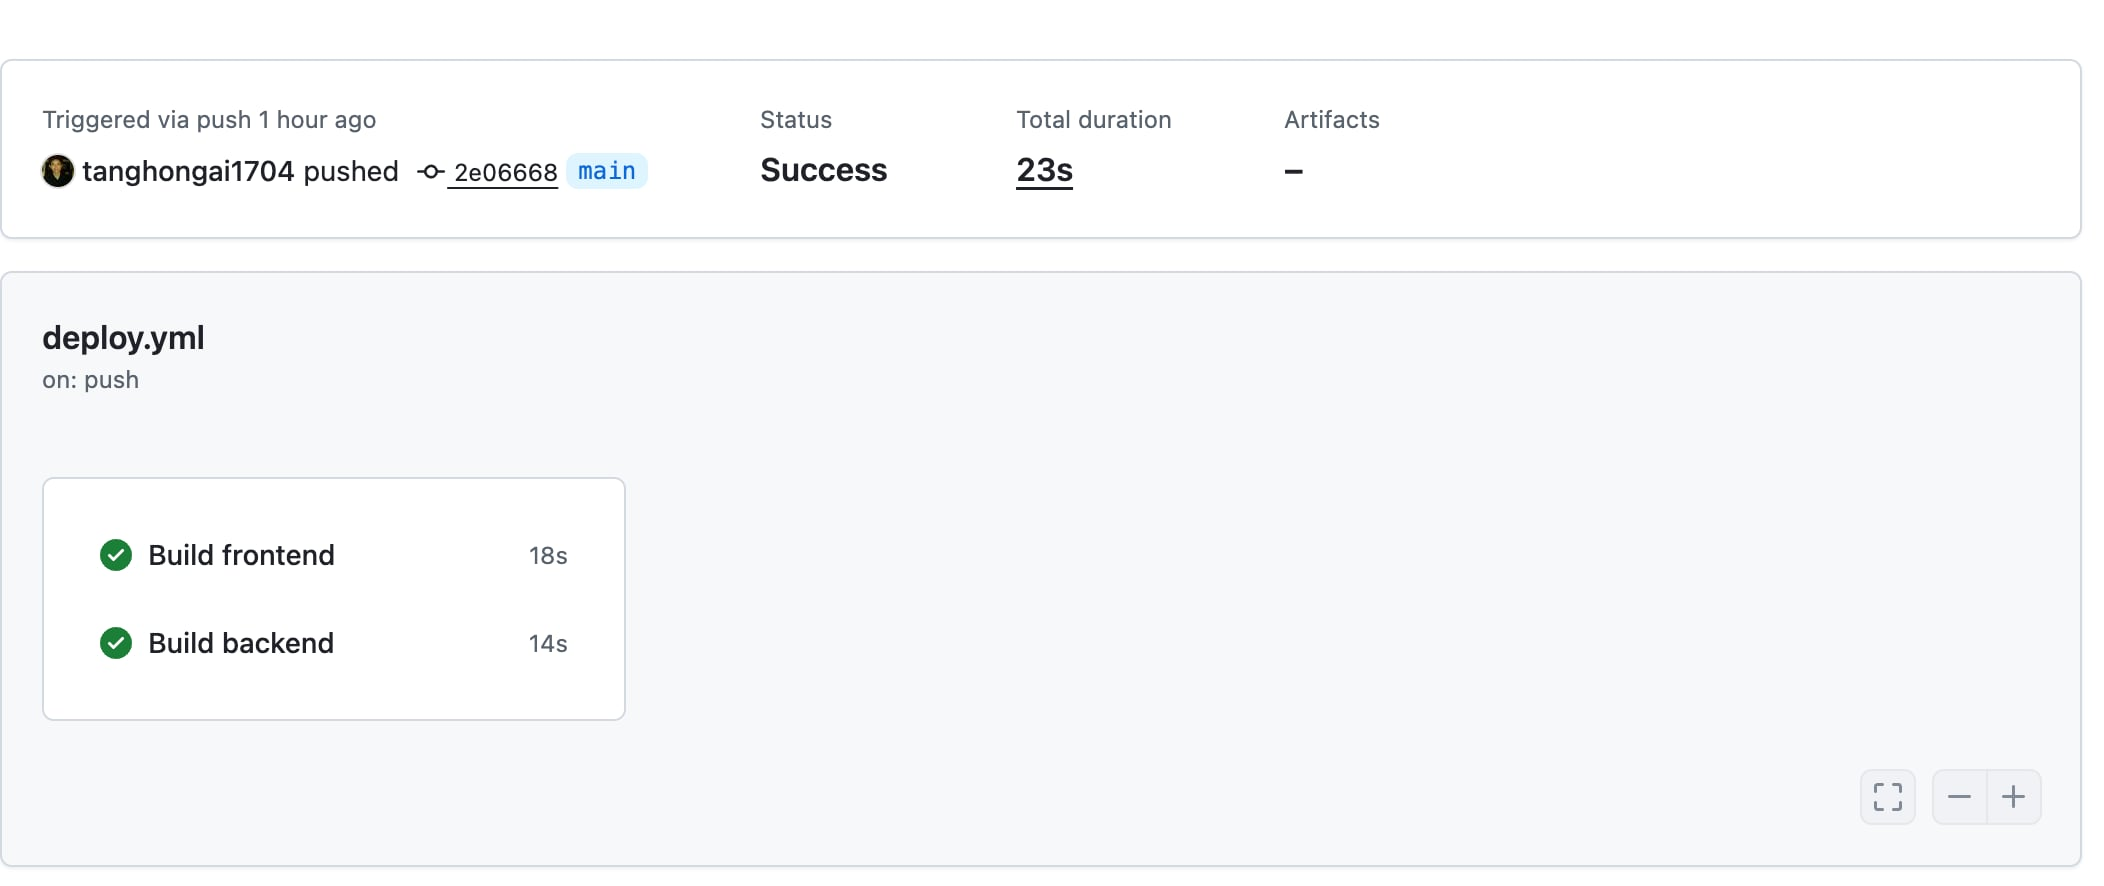
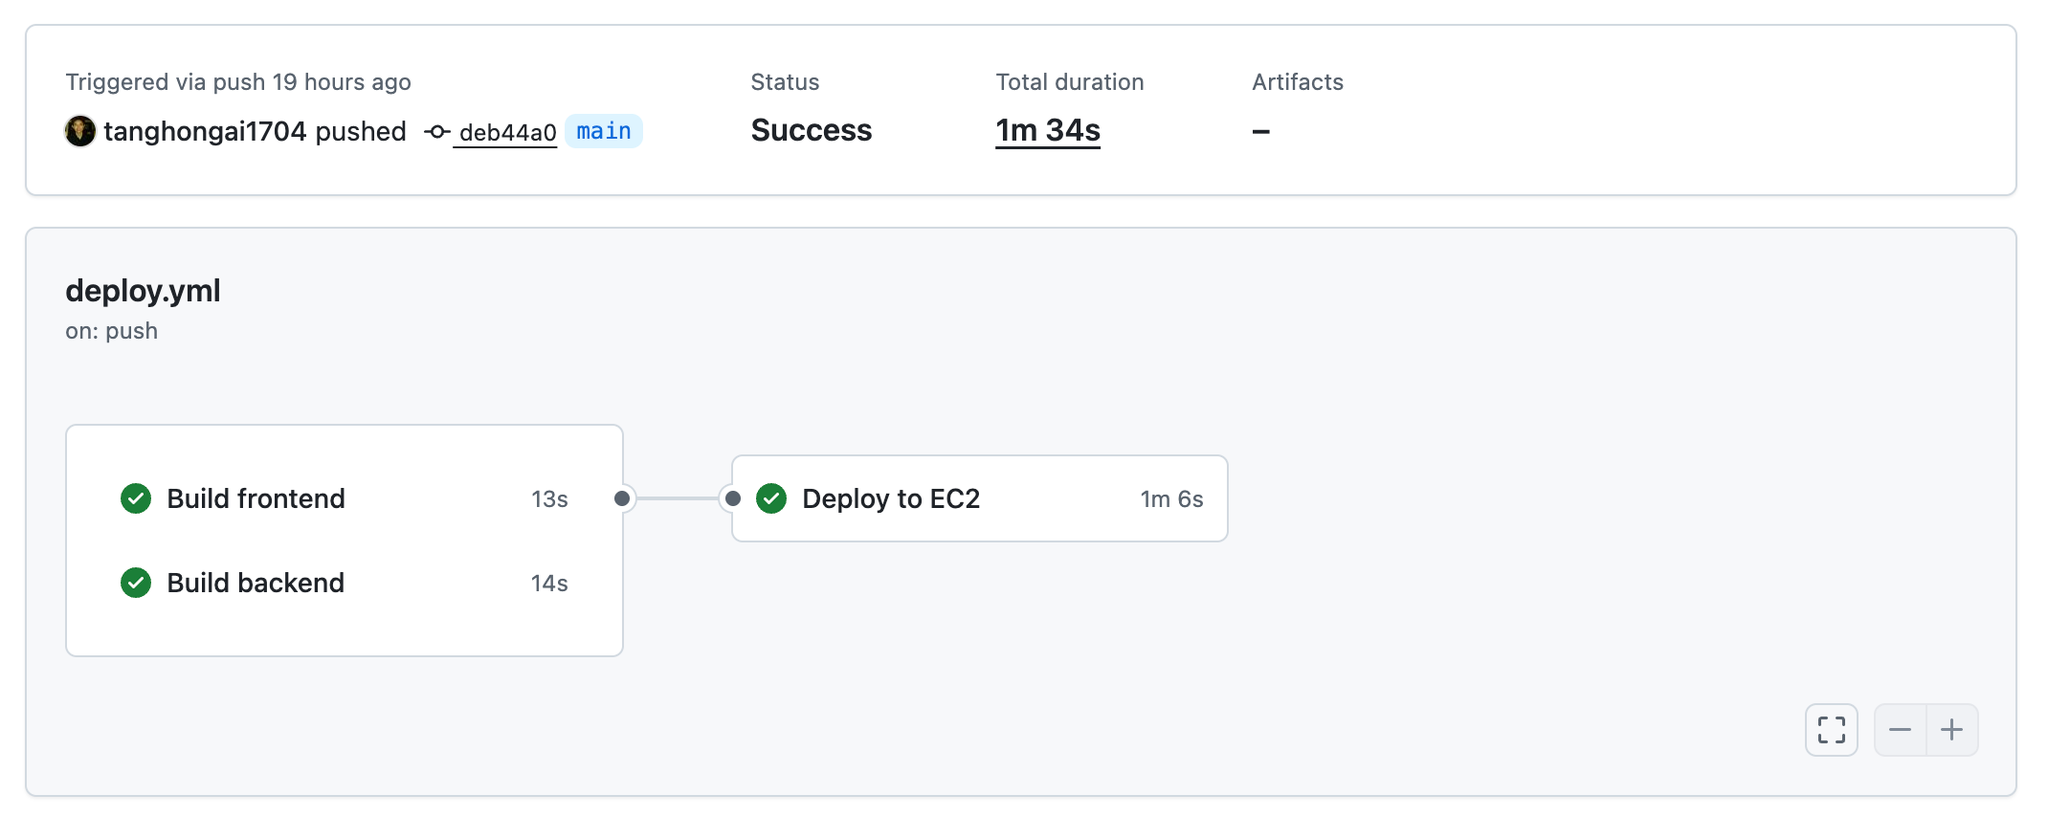
Update Deployment Workflow section to reflect the current deploy.yml structure
Describe Build frontend / Build backend as parallel jobs followed by a
single Deploy to EC2 job, matching the actual GitHub Actions run graph,
and swap in the current successful-run screenshot.

diff --git a/content/5-Workshop/5.4-Recommendation-pipeline/5.4.3-integrate-ec2-application/_index.md b/content/5-Workshop/5.4-Recommendation-pipeline/5.4.3-integrate-ec2-application/_index.md
@@ -58,14 +58,17 @@ On EC2, prefer an instance profile so the AWS SDK obtains credentials through th
 
 ## 4. Deployment Workflow
 
-When a commit is pushed to the `main` branch, GitHub Actions:
+When a commit is pushed to the `main` branch, the `deploy.yml` workflow runs the **Build frontend** and **Build backend** jobs in parallel, followed by the **Deploy to EC2** job:
 
+**Build frontend / Build backend** (run in parallel)
 1. Builds the frontend.
 2. Installs backend dependencies and runs `compileall`.
-3. Connects to EC2 over SSH.
-4. Changes to `EC2_APP_DIR`.
-5. Pulls source from `main`.
-6. Runs Docker Compose.
+
+**Deploy to EC2** (runs after both build jobs succeed)
+1. Connects to EC2 over SSH.
+2. Changes to `EC2_APP_DIR`.
+3. Pulls source from `main`.
+4. Runs Docker Compose.
 
 ![Successful GitHub Actions workflow build](/images/5-Workshop/5.4-Recommendation-pipeline/5.4.3-integrate-ec2-application/github-actions-build-success.png)
 

diff --git a/content/5-Workshop/5.4-Recommendation-pipeline/5.4.3-integrate-ec2-application/_index.vi.md b/content/5-Workshop/5.4-Recommendation-pipeline/5.4.3-integrate-ec2-application/_index.vi.md
@@ -59,14 +59,17 @@ Trên EC2, ưu tiên instance profile để AWS SDK nhận credential qua defaul
 
 ## 4. Workflow triển khai
 
-Khi push branch `main`, GitHub Actions:
+Khi push branch `main`, workflow `deploy.yml` chạy hai job **Build frontend** và **Build backend** song song, sau đó tới job **Deploy to EC2**:
 
+**Build frontend / Build backend** (chạy song song)
 1. Build frontend.
 2. Cài dependency backend và chạy `compileall`.
-3. SSH vào EC2.
-4. Chuyển tới `EC2_APP_DIR`.
-5. Pull source từ `main`.
-6. Chạy Docker Compose.
+
+**Deploy to EC2** (chạy sau khi cả hai build job hoàn tất)
+1. SSH vào EC2.
+2. Chuyển tới `EC2_APP_DIR`.
+3. Pull source từ `main`.
+4. Chạy Docker Compose.
 
 ![GitHub Actions workflow build thành công](/images/5-Workshop/5.4-Recommendation-pipeline/5.4.3-integrate-ec2-application/github-actions-build-success.png)
 
